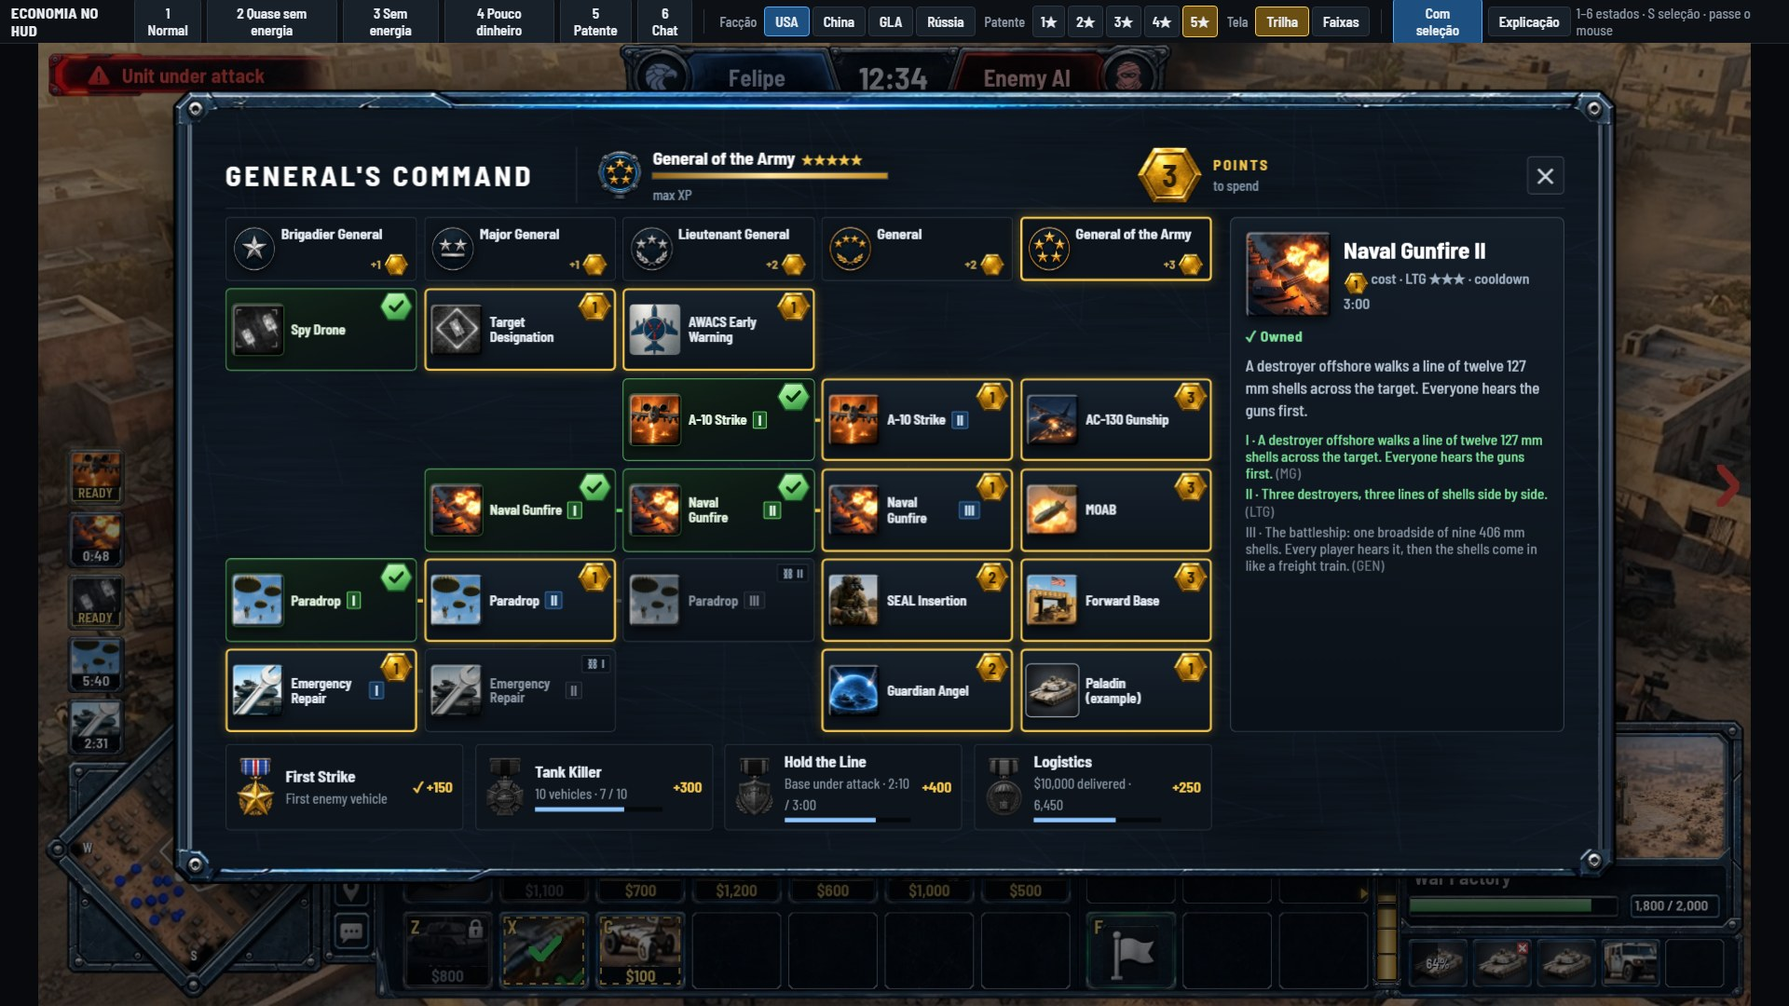
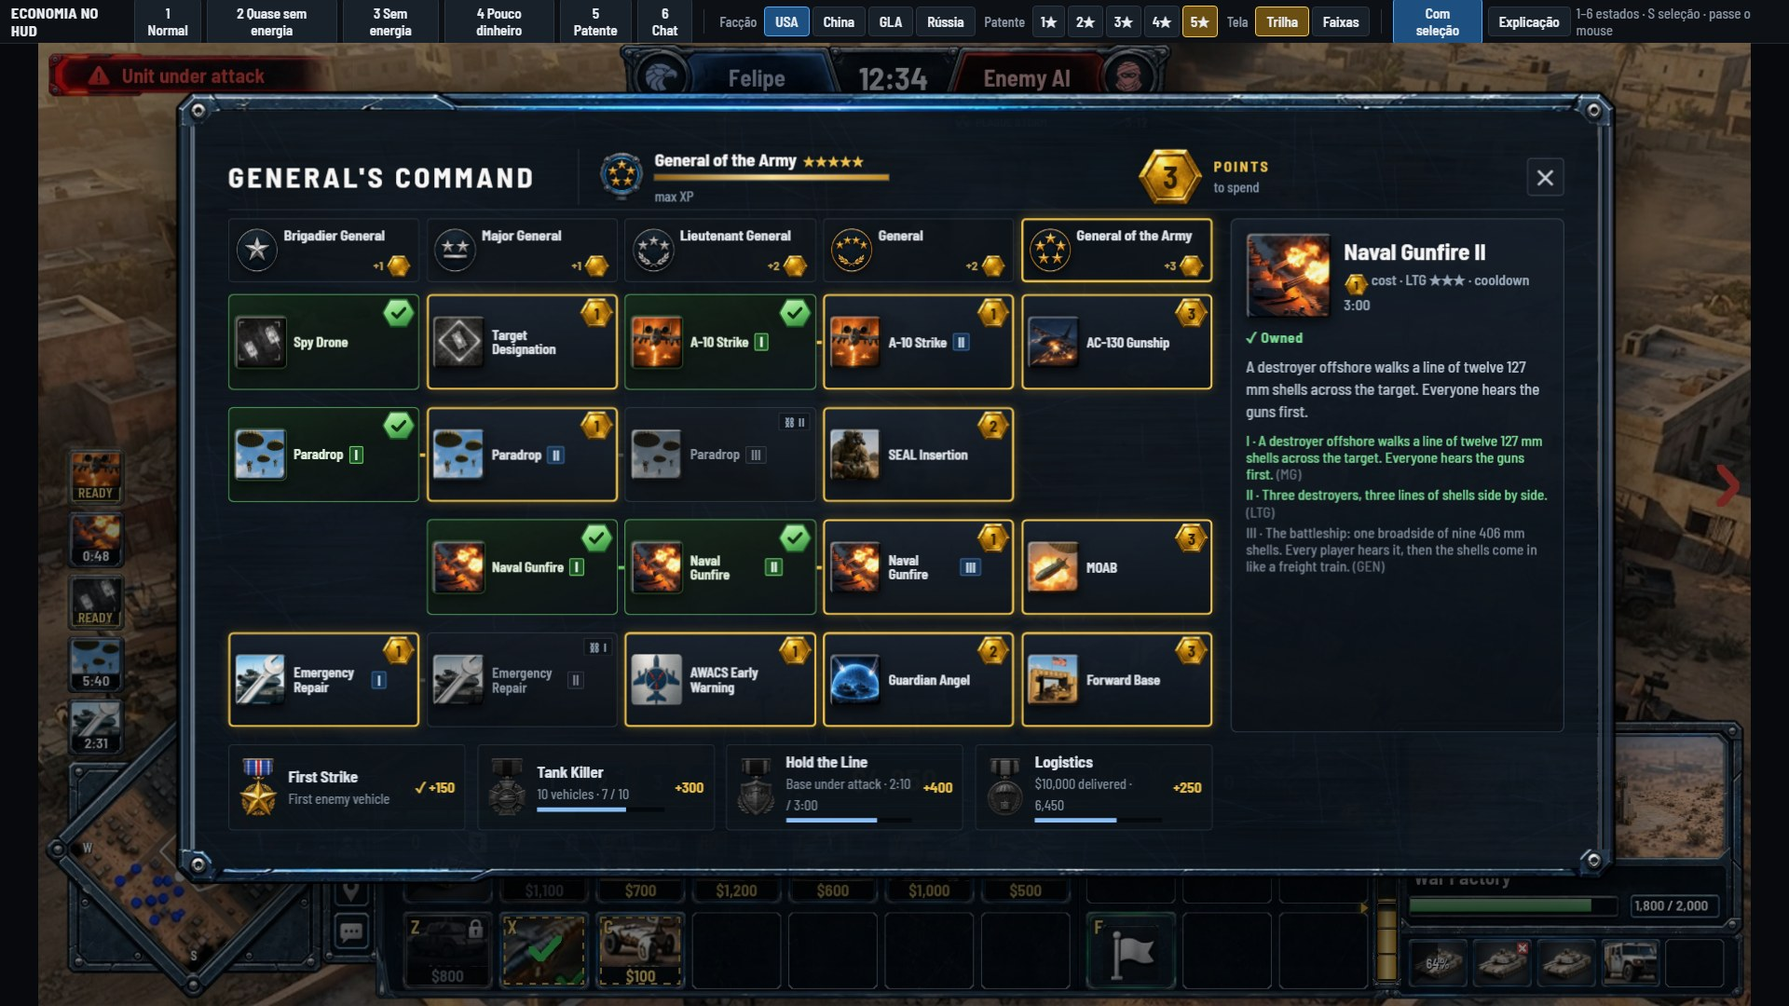
Poderes do general: a tela da USA sem os rótulos das linhas, na ordem aprovada antes

diff --git a/docs/poderes/tela/poderes_usa.html b/docs/poderes/tela/poderes_usa.html
@@ -1040,7 +1040,7 @@ html, body { margin: 0; height: 100%; background: var(--bg); color: var(--ink); 
 #pcolx .iw { position: absolute; }
 #pcolx .iw img { width: 100%; height: 100%; object-fit: cover; }
 </style>
-<style>#gen .trk { grid-template-columns: repeat(5, 1fr); grid-template-rows: 58px repeat(5, 1fr); } #gen .trk .rl, #gen .trk > svg + div { display: none; } #gen .trk .pw { max-width: 190px; }</style>
+<style>#gen .trk { grid-template-columns: repeat(5, 1fr); grid-template-rows: 58px repeat(4, 1fr); } #gen .trk .rl, #gen .trk > svg + div { display: none; } #gen .trk .pw { max-width: 190px; }</style>
 </head>
 <body>
 <div id="bar">
@@ -1644,33 +1644,32 @@ function menuReset() { Object.keys(OWN).forEach(k => delete OWN[k]); Object.assi
 
 // ---- v9: os poderes como nós (o nível II e III são nós próprios, ligados ao anterior); colunas = patente, linhas = tipo ----
 // (03/11, decisão dele: "dá pra tirar essa distinção das linhas, C&C não tem isso") A árvore da USA SEM o rótulo de tipo nas linhas:
-// o tipo é lido no ícone (docs/poderes/ICONES.md). As linhas são livres, na ordem dos tipos (olhos, golpe, golpe, tropas, apoio), e
-// uma patente pode ter quantos poderes precisar. Os níveis de um poder ficam na mesma linha, ligados. Ver docs/poderes/USA.md §17.
+// o tipo é lido no ícone (docs/poderes/ICONES.md). A ORDEM é a aprovada antes (as 4 linhas de antes, sem o rótulo: "não é pra mudar a
+// ordem que escolhemos"); uma patente pode ganhar outra linha quando precisar. Os níveis de um poder ficam na mesma linha, ligados.
 // A árvore de poderes da USA (docs/poderes/USA.md), no formato da tela de poderes do protótipo do HUD.
 // ic: o ícone em a/<ic>.png do protótipo; os novos estão em docs/poderes/tela/pw/ (provisórios). Os níveis de um poder ficam em
 // patentes seguidas (a linha que os liga não pode passar por trás de outro poder). Uma casa (linha × patente) = um poder.
 // t: o tipo (docs/poderes/ICONES.md): atk = golpe, intel = olhos, troop = tropas, sup = apoio (a família comando); pas = passivo; unl = desbloqueio.
-const ROWS = [['', ''], ['', ''], ['', ''], ['', ''], ['', '']];
+const ROWS = [['', ''], ['', ''], ['', ''], ['', '']];
 // (03/11, a árvore da USA em debate: docs/poderes/USA.md; os ícones em pw/ são provisórios)
 const NODES = [
   { id: 'drone', t: 'intel', row: 0, rank: 1, n: 'Spy Drone', ic: '../../../../poderes/tela/icones/usa_drone_esc', cost: 1, cd: '1:30', d: 'A stealth drone circles the point for 40 s, sees 66 m and reveals hidden units. It can be shot down.' },
   { id: 'desig', t: 'intel', row: 0, rank: 2, n: 'Target Designation', ic: '../../../../poderes/tela/icones/usa_desig_esc', cost: 1, cd: '1:30', d: 'A satellite paints a 30 m circle for 20 s. Hidden units are revealed and enemies inside take 25% more damage. The enemy sees the laser dots.' },
-  { id: 'a10_1', t: 'atk', row: 1, rank: 3, n: 'A-10 Strike', lv: 'I', ic: '../../../../poderes/tela/icones/usa_a10_esc', cost: 2, cd: '3:00', d: 'One A-10 makes a pass: six Mavericks and the 30 mm cannon along an 80 m strip. It can be shot down.' },
-  { id: 'a10_2', t: 'atk', row: 1, rank: 4, n: 'A-10 Strike', lv: 'II', req: 'a10_1', short: 'Two A-10s', ic: '../../../../poderes/tela/icones/usa_a10_esc', cost: 1, cd: '3:00', d: 'Two A-10s side by side.' },
-  { id: 'ac130', t: 'atk', row: 1, rank: 5, n: 'AC-130 Gunship', ic: '../../../../poderes/tela/icones/usa_ac130_esc', cost: 3, cd: '6:00', d: 'Orbits the area for 12 s and fires where you click: the 105 mm howitzer and the 25 mm cannon.' },
-  { id: 'para1', t: 'troop', row: 3, rank: 1, n: 'Paradrop', lv: 'I', ic: '../../../../poderes/tela/icones/usa_para_esc', cost: 1, cd: '3:00', d: 'Three Rangers and two Javelins drop at the target. $650 per drop.' },
-  { id: 'para2', t: 'troop', row: 3, rank: 2, n: 'Paradrop', lv: 'II', req: 'para1', short: '6 + 4', ic: '../../../../poderes/tela/icones/usa_para_esc', cost: 1, cd: '3:00', d: 'Six Rangers and four Javelins. $1,300 per drop.' },
-  { id: 'seal', t: 'troop', row: 3, rank: 4, n: 'SEAL Insertion', ic: '../../../../poderes/tela/icones/usa_seal_esc', cost: 2, cd: '4:00', d: 'An Osprey lands four hidden SEALs. Their charges bring a building down from where they were planted. $600 per insertion.' },
-  { id: 'para3', t: 'troop', row: 3, rank: 3, n: 'Paradrop', lv: 'III', req: 'para2', short: 'HALO, 10 + 6', ic: '../../../../poderes/tela/icones/usa_para_esc', cost: 1, cd: '3:00', d: 'HALO jump: ten Rangers and six Javelins from high altitude, where only long-range air defense reaches the plane. $2,000 per drop.' },
+  { id: 'a10_1', t: 'atk', row: 0, rank: 3, n: 'A-10 Strike', lv: 'I', ic: '../../../../poderes/tela/icones/usa_a10_esc', cost: 2, cd: '3:00', d: 'One A-10 makes a pass: six Mavericks and the 30 mm cannon along an 80 m strip. It can be shot down.' },
+  { id: 'a10_2', t: 'atk', row: 0, rank: 4, n: 'A-10 Strike', lv: 'II', req: 'a10_1', short: 'Two A-10s', ic: '../../../../poderes/tela/icones/usa_a10_esc', cost: 1, cd: '3:00', d: 'Two A-10s side by side.' },
+  { id: 'ac130', t: 'atk', row: 0, rank: 5, n: 'AC-130 Gunship', ic: '../../../../poderes/tela/icones/usa_ac130_esc', cost: 3, cd: '6:00', d: 'Orbits the area for 12 s and fires where you click: the 105 mm howitzer and the 25 mm cannon.' },
+  { id: 'para1', t: 'troop', row: 1, rank: 1, n: 'Paradrop', lv: 'I', ic: '../../../../poderes/tela/icones/usa_para_esc', cost: 1, cd: '3:00', d: 'Three Rangers and two Javelins drop at the target. $650 per drop.' },
+  { id: 'para2', t: 'troop', row: 1, rank: 2, n: 'Paradrop', lv: 'II', req: 'para1', short: '6 + 4', ic: '../../../../poderes/tela/icones/usa_para_esc', cost: 1, cd: '3:00', d: 'Six Rangers and four Javelins. $1,300 per drop.' },
+  { id: 'seal', t: 'troop', row: 1, rank: 4, n: 'SEAL Insertion', ic: '../../../../poderes/tela/icones/usa_seal_esc', cost: 2, cd: '4:00', d: 'An Osprey lands four hidden SEALs. Their charges bring a building down from where they were planted. $600 per insertion.' },
+  { id: 'para3', t: 'troop', row: 1, rank: 3, n: 'Paradrop', lv: 'III', req: 'para2', short: 'HALO, 10 + 6', ic: '../../../../poderes/tela/icones/usa_para_esc', cost: 1, cd: '3:00', d: 'HALO jump: ten Rangers and six Javelins from high altitude, where only long-range air defense reaches the plane. $2,000 per drop.' },
   { id: 'naval1', t: 'atk', row: 2, rank: 2, n: 'Naval Gunfire', lv: 'I', ic: '../../../../poderes/tela/icones/usa_naval_esc', cost: 1, cd: '3:00', d: 'A destroyer offshore walks a line of twelve 127 mm shells across the target. Everyone hears the guns first.' },
   { id: 'naval2', t: 'atk', row: 2, rank: 3, n: 'Naval Gunfire', lv: 'II', req: 'naval1', short: '3 destroyers', ic: '../../../../poderes/tela/icones/usa_naval_esc', cost: 1, cd: '3:00', d: 'Three destroyers, three lines of shells side by side.' },
   { id: 'naval3', t: 'atk', row: 2, rank: 4, n: 'Naval Gunfire', lv: 'III', req: 'naval2', short: 'Battleship', ic: '../../../../poderes/tela/icones/usa_naval_esc', cost: 1, cd: '5:00', d: 'The battleship: one broadside of nine 406 mm shells. Every player hears it, then the shells come in like a freight train.' },
-  { id: 'unl_ex', row: 4, rank: 5, n: 'Paladin (example)', t: 'unl', ic: '../../kit/photos/buttons/usa_battle_tank', cost: 1, cd: 'Unlock', d: 'Example of an unlock power: the tank becomes available in the War Factory, with the same picture as its build button.' },
   { id: 'moab', t: 'atk', row: 2, rank: 5, n: 'MOAB', ic: '../../../../poderes/tela/icones/usa_moab_esc', cost: 3, cd: '7:00', d: 'The biggest bomb, dropped from an MC-130 by parachute. The mark stays on the ground for 12 s.' },
-  { id: 'repair1', t: 'sup', row: 4, rank: 1, n: 'Emergency Repair', lv: 'I', ic: '../../../../poderes/tela/icones/usa_repair_esc', cost: 1, cd: '2:00', d: 'Vehicles in the area get back 30% of their health and take 25% less damage for 15 s.' },
-  { id: 'awacs', t: 'pas', row: 0, rank: 3, n: 'AWACS Early Warning', ic: '../../../../poderes/tela/icones/usa_awacs_esc', cost: 1, cd: 'Passive', d: 'Every enemy power shows its type, route and target the moment it is called, for you and your allies.' },
-  { id: 'repair2', t: 'sup', row: 4, rank: 2, n: 'Emergency Repair', lv: 'II', req: 'repair1', short: '50%, buildings too', ic: '../../../../poderes/tela/icones/usa_repair_esc', cost: 1, cd: '2:00', d: '50% back, and buildings too.' },
-  { id: 'angel', t: 'sup', row: 4, rank: 4, n: 'Guardian Angel', ic: '../../../../poderes/tela/icones/usa_angel_esc', cost: 2, cd: '3:00', d: 'For 20 s, lasers and interceptors shoot down missiles, rockets, shells and bombs over a 40 m circle. Not superweapons.' },
+  { id: 'repair1', t: 'sup', row: 3, rank: 1, n: 'Emergency Repair', lv: 'I', ic: '../../../../poderes/tela/icones/usa_repair_esc', cost: 1, cd: '2:00', d: 'Vehicles in the area get back 30% of their health and take 25% less damage for 15 s.' },
+  { id: 'awacs', t: 'pas', row: 3, rank: 3, n: 'AWACS Early Warning', ic: '../../../../poderes/tela/icones/usa_awacs_esc', cost: 1, cd: 'Passive', d: 'Every enemy power shows its type, route and target the moment it is called, for you and your allies.' },
+  { id: 'repair2', t: 'sup', row: 3, rank: 2, n: 'Emergency Repair', lv: 'II', req: 'repair1', short: '50%, buildings too', ic: '../../../../poderes/tela/icones/usa_repair_esc', cost: 1, cd: '2:00', d: '50% back, and buildings too.' },
+  { id: 'angel', t: 'sup', row: 3, rank: 4, n: 'Guardian Angel', ic: '../../../../poderes/tela/icones/usa_angel_esc', cost: 2, cd: '3:00', d: 'For 20 s, lasers and interceptors shoot down missiles, rockets, shells and bombs over a 40 m circle. Not superweapons.' },
   { id: 'fob', t: 'troop', row: 3, rank: 5, n: 'Forward Base', ic: '../../../../poderes/tela/icones/usa_fob_esc', cost: 3, cd: '6:00', d: 'A C-17 lands and sets up a forward base in 20 s. Reinforcements can leave from it, and it repairs vehicles around it. One at a time.' }];
 const HAVE = {};
 const node = id => NODES.find(n => n.id === id);

diff --git a/docs/poderes/tela/usa.js b/docs/poderes/tela/usa.js
@@ -1,28 +1,28 @@
 // (03/11, decisão dele: "dá pra tirar essa distinção das linhas, C&C não tem isso") A árvore da USA SEM o rótulo de tipo nas linhas:
-// o tipo é lido no ícone (docs/poderes/ICONES.md). As linhas são livres, na ordem dos tipos (olhos, golpe, golpe, tropas, apoio), e
-// uma patente pode ter quantos poderes precisar. Os níveis de um poder ficam na mesma linha, ligados. Ver docs/poderes/USA.md §17.
+// o tipo é lido no ícone (docs/poderes/ICONES.md). A ORDEM é a aprovada antes (as 4 linhas de antes, sem o rótulo: "não é pra mudar a
+// ordem que escolhemos"); uma patente pode ganhar outra linha quando precisar. Os níveis de um poder ficam na mesma linha, ligados.
 // A árvore de poderes da USA (docs/poderes/USA.md), no formato da tela de poderes do protótipo do HUD.
 // ic: o ícone em a/<ic>.png do protótipo; os novos estão em docs/poderes/tela/pw/ (provisórios). Os níveis de um poder ficam em
 // patentes seguidas (a linha que os liga não pode passar por trás de outro poder). Uma casa (linha × patente) = um poder.
 // t: o tipo (docs/poderes/ICONES.md): atk = golpe, intel = olhos, troop = tropas, sup = apoio (a família comando); pas = passivo; unl = desbloqueio.
-const ROWS = [['', ''], ['', ''], ['', ''], ['', ''], ['', '']];
+const ROWS = [['', ''], ['', ''], ['', ''], ['', '']];
 // (03/11, a árvore da USA em debate: docs/poderes/USA.md; os ícones em pw/ são provisórios)
 const NODES = [
   { id: 'drone', t: 'intel', row: 0, rank: 1, n: 'Spy Drone', ic: 'spy_drone', cost: 1, cd: '1:30', d: 'A stealth drone circles the point for 40 s, sees 66 m and reveals hidden units. It can be shot down.' },
   { id: 'desig', t: 'intel', row: 0, rank: 2, n: 'Target Designation', ic: 'orbital_lance', cost: 1, cd: '1:30', d: 'A satellite paints a 30 m circle for 20 s. Hidden units are revealed and enemies inside take 25% more damage. The enemy sees the laser dots.' },
-  { id: 'a10_1', t: 'atk', row: 1, rank: 3, n: 'A-10 Strike', lv: 'I', ic: '../../../../poderes/tela/pw/usa_a10', cost: 2, cd: '3:00', d: 'One A-10 makes a pass: six Mavericks and the 30 mm cannon along an 80 m strip. It can be shot down.' },
-  { id: 'a10_2', t: 'atk', row: 1, rank: 4, n: 'A-10 Strike', lv: 'II', req: 'a10_1', short: 'Two A-10s', ic: '../../../../poderes/tela/pw/usa_a10', cost: 1, cd: '3:00', d: 'Two A-10s side by side.' },
-  { id: 'ac130', t: 'atk', row: 1, rank: 5, n: 'AC-130 Gunship', ic: '../../../../poderes/tela/pw/usa_ac130', cost: 3, cd: '6:00', d: 'Orbits the area for 12 s and fires where you click: the 105 mm howitzer and the 25 mm cannon.' },
-  { id: 'para1', t: 'troop', row: 3, rank: 1, n: 'Paradrop', lv: 'I', ic: 'paradrop', cost: 1, cd: '3:00', d: 'Three Rangers and two Javelins drop at the target. $650 per drop.' },
-  { id: 'para2', t: 'troop', row: 3, rank: 2, n: 'Paradrop', lv: 'II', req: 'para1', short: '6 + 4', ic: 'paradrop', cost: 1, cd: '3:00', d: 'Six Rangers and four Javelins. $1,300 per drop.' },
-  { id: 'seal', t: 'troop', row: 3, rank: 4, n: 'SEAL Insertion', ic: 'p_usa_ranger', cost: 2, cd: '4:00', d: 'An Osprey lands four hidden SEALs. Their charges bring a building down from where they were planted. $600 per insertion.' },
-  { id: 'para3', t: 'troop', row: 3, rank: 3, n: 'Paradrop', lv: 'III', req: 'para2', short: 'HALO, 10 + 6', ic: 'paradrop', cost: 1, cd: '3:00', d: 'HALO jump: ten Rangers and six Javelins from high altitude, where only long-range air defense reaches the plane. $2,000 per drop.' },
+  { id: 'a10_1', t: 'atk', row: 0, rank: 3, n: 'A-10 Strike', lv: 'I', ic: '../../../../poderes/tela/pw/usa_a10', cost: 2, cd: '3:00', d: 'One A-10 makes a pass: six Mavericks and the 30 mm cannon along an 80 m strip. It can be shot down.' },
+  { id: 'a10_2', t: 'atk', row: 0, rank: 4, n: 'A-10 Strike', lv: 'II', req: 'a10_1', short: 'Two A-10s', ic: '../../../../poderes/tela/pw/usa_a10', cost: 1, cd: '3:00', d: 'Two A-10s side by side.' },
+  { id: 'ac130', t: 'atk', row: 0, rank: 5, n: 'AC-130 Gunship', ic: '../../../../poderes/tela/pw/usa_ac130', cost: 3, cd: '6:00', d: 'Orbits the area for 12 s and fires where you click: the 105 mm howitzer and the 25 mm cannon.' },
+  { id: 'para1', t: 'troop', row: 1, rank: 1, n: 'Paradrop', lv: 'I', ic: 'paradrop', cost: 1, cd: '3:00', d: 'Three Rangers and two Javelins drop at the target. $650 per drop.' },
+  { id: 'para2', t: 'troop', row: 1, rank: 2, n: 'Paradrop', lv: 'II', req: 'para1', short: '6 + 4', ic: 'paradrop', cost: 1, cd: '3:00', d: 'Six Rangers and four Javelins. $1,300 per drop.' },
+  { id: 'seal', t: 'troop', row: 1, rank: 4, n: 'SEAL Insertion', ic: 'p_usa_ranger', cost: 2, cd: '4:00', d: 'An Osprey lands four hidden SEALs. Their charges bring a building down from where they were planted. $600 per insertion.' },
+  { id: 'para3', t: 'troop', row: 1, rank: 3, n: 'Paradrop', lv: 'III', req: 'para2', short: 'HALO, 10 + 6', ic: 'paradrop', cost: 1, cd: '3:00', d: 'HALO jump: ten Rangers and six Javelins from high altitude, where only long-range air defense reaches the plane. $2,000 per drop.' },
   { id: 'naval1', t: 'atk', row: 2, rank: 2, n: 'Naval Gunfire', lv: 'I', ic: '../../../../poderes/tela/pw/usa_naval', cost: 1, cd: '3:00', d: 'A destroyer offshore walks a line of twelve 127 mm shells across the target. Everyone hears the guns first.' },
   { id: 'naval2', t: 'atk', row: 2, rank: 3, n: 'Naval Gunfire', lv: 'II', req: 'naval1', short: '3 destroyers', ic: '../../../../poderes/tela/pw/usa_naval', cost: 1, cd: '3:00', d: 'Three destroyers, three lines of shells side by side.' },
   { id: 'naval3', t: 'atk', row: 2, rank: 4, n: 'Naval Gunfire', lv: 'III', req: 'naval2', short: 'Battleship', ic: '../../../../poderes/tela/pw/usa_naval', cost: 1, cd: '5:00', d: 'The battleship: one broadside of nine 406 mm shells. Every player hears it, then the shells come in like a freight train.' },
   { id: 'moab', t: 'atk', row: 2, rank: 5, n: 'MOAB', ic: '../../../../poderes/tela/pw/usa_moab', cost: 3, cd: '7:00', d: 'The biggest bomb, dropped from an MC-130 by parachute. The mark stays on the ground for 12 s.' },
-  { id: 'repair1', t: 'sup', row: 4, rank: 1, n: 'Emergency Repair', lv: 'I', ic: 'repair', cost: 1, cd: '2:00', d: 'Vehicles in the area get back 30% of their health and take 25% less damage for 15 s.' },
-  { id: 'awacs', t: 'pas', row: 0, rank: 3, n: 'AWACS Early Warning', ic: '../../../../poderes/tela/pw/usa_awacs', cost: 1, cd: 'Passive', d: 'Every enemy power shows its type, route and target the moment it is called, for you and your allies.' },
-  { id: 'repair2', t: 'sup', row: 4, rank: 2, n: 'Emergency Repair', lv: 'II', req: 'repair1', short: '50%, buildings too', ic: 'repair', cost: 1, cd: '2:00', d: '50% back, and buildings too.' },
-  { id: 'angel', t: 'sup', row: 4, rank: 4, n: 'Guardian Angel', ic: 'armor_upgrade', cost: 2, cd: '3:00', d: 'For 20 s, lasers and interceptors shoot down missiles, rockets, shells and bombs over a 40 m circle. Not superweapons.' },
+  { id: 'repair1', t: 'sup', row: 3, rank: 1, n: 'Emergency Repair', lv: 'I', ic: 'repair', cost: 1, cd: '2:00', d: 'Vehicles in the area get back 30% of their health and take 25% less damage for 15 s.' },
+  { id: 'awacs', t: 'pas', row: 3, rank: 3, n: 'AWACS Early Warning', ic: '../../../../poderes/tela/pw/usa_awacs', cost: 1, cd: 'Passive', d: 'Every enemy power shows its type, route and target the moment it is called, for you and your allies.' },
+  { id: 'repair2', t: 'sup', row: 3, rank: 2, n: 'Emergency Repair', lv: 'II', req: 'repair1', short: '50%, buildings too', ic: 'repair', cost: 1, cd: '2:00', d: '50% back, and buildings too.' },
+  { id: 'angel', t: 'sup', row: 3, rank: 4, n: 'Guardian Angel', ic: 'armor_upgrade', cost: 2, cd: '3:00', d: 'For 20 s, lasers and interceptors shoot down missiles, rockets, shells and bombs over a 40 m circle. Not superweapons.' },
   { id: 'fob', t: 'troop', row: 3, rank: 5, n: 'Forward Base', ic: 'p_usa_war_factory', cost: 3, cd: '6:00', d: 'A C-17 lands and sets up a forward base in 20 s. Reinforcements can leave from it, and it repairs vehicles around it. One at a time.' }];

diff --git a/docs/poderes/tela/make_tela.py b/docs/poderes/tela/make_tela.py
@@ -71,8 +71,6 @@ def build(faction, style=None, column=None, icons=None, tree_name=None):
             if os.path.exists(os.path.join(ico, f'usa_{pw}_{icons}.png')):
                 n0 = out.index('const NODES')    # só na árvore: o protótipo tem outra lista com os mesmos ids (o MENU antigo)
                 out = out[:n0] + re.sub(r"(\{ id: '%s',[^\n]*? ic: ')[^']*'" % i, lambda m: m.group(1) + f"../../../../poderes/tela/icones/usa_{pw}_{icons}'", out[n0:], count=1)
-        # o exemplo de desbloqueio (a USA não tem: a tecnologia abre pela patente); a foto do botão de construir do tanque, do kit do HUD
-        if "id: 'unl_ex'" not in out: out = out.replace("  { id: 'moab',", "  { id: 'unl_ex', row: 4, rank: 5, n: 'Paladin (example)', t: 'unl', ic: '../../kit/photos/buttons/usa_battle_tank', cost: 1, cd: 'Unlock', d: 'Example of an unlock power: the tank becomes available in the War Factory, with the same picture as its build button.' },\n  { id: 'moab',", 1)
     hook = "if (q.get('gen')) setTimeout(genOpen, 400);"
     # a coluna de poderes do HUD (a da esquerda, desenhada no fundo): o ícone por cima de cada casa; o relógio embaixo continua
     if column:

diff --git a/docs/APROVADOS.md b/docs/APROVADOS.md
@@ -429,4 +429,5 @@ O como de cada visual continua nos documentos de cada área: `docs/RECEITAS_DO_L
 | 03/11 | **NO RUMO: os ícones dos poderes da USA pela regra das famílias** (`docs/poderes/ICONES.md`): **o do GPT na maioria**, trocando pelo do Gemini **o Naval, a MOAB e o AC-130**. **Reprovados:** o ícone do Emergency Repair ("não dá pra saber que é de conserto") e o do Guardian Angel ("parece um raio de atirar, todo mundo vai se enganar"); o do Forward Operating Base "não representa o que eu tinha entendido", e **o próprio poder ficou em dúvida** ("dá pra gente pensar num outro da USA que faz sentido") | "o do GPT gostei, a maioria, mas eu trocaria pelo do Gemini os do naval, e o moab, e o ac130" | `docs/concept/poderes/icones_familias_gpt_sel_a10_1.jpg` | `docs/poderes/ICONES.md` §8 | Superarmas |
 | 03/11 | **ESCOLHIDO: o ícone do Forward Operating Base, o portão do Gemini** (o posto de barreiras com a bandeira e o tanque saindo pelo portão: os reforços saem dali). O poder fica (o Strategic Airlift não entrou: "pode deixar o outro, o posto avançado") | "pode ser o do Gemini, o portão" | `docs/concept/poderes/icones_usa_conjunto.jpg` | `docs/poderes/ICONES.md` §9 | Superarmas |
 | 03/11 | **APROVADO: o conjunto de ícones dos poderes da USA** (a regra das famílias: o comando com a cena, o passivo na placa, o desbloqueio na foto do botão; o GPT na maioria, o Naval, a MOAB, o AC-130 e o portão do posto avançado do Gemini; a chave, a cúpula e o radar refeitos). **E DECIDIDO: a tela do general sem a distinção das linhas por tipo** (o tipo se lê no ícone; as linhas são livres, uma patente pode ter quantos poderes precisar; os níveis seguem na mesma linha) | "aprovado"; "e se tiver 2 AIR [...] no Major General, como encaixaria?"; "eu acho que daria pra tirar essa distinção das linhas, e foda-se, C&C não tem isso mesmo" | `docs/concept/poderes/tela_sem_rotulos.jpg` | `docs/poderes/ICONES.md` §9, `docs/poderes/USA.md` §17, a tela `docs/poderes/tela/` | Superarmas |
+| 03/11 | **DECIDIDO: sem as linhas por tipo, mas na MESMA ORDEM aprovada antes** (eu tinha reordenado por tipo ao tirar os rótulos; desfeito) | "top, mas deixa exatamente na ordem que tava antes, mesmo que a gente desbloqueou (tirou a trava por linhas) não é pra mudar a ordem que escolhemos antes" | `docs/concept/poderes/tela_sem_rotulos.jpg` | `docs/poderes/USA.md` §17 | Superarmas |
 

diff --git a/docs/poderes/USA.md b/docs/poderes/USA.md
@@ -404,12 +404,9 @@ um por vez.
   - as colunas são as patentes;
   - os níveis de um poder ficam na mesma linha, ligados pela linha;
   - as linhas seguem a ordem dos tipos (olhos, golpe, tropas, apoio), sem rótulo, só pra manter juntos os parecidos.
-- **A árvore** (`docs/poderes/tela/usa.js`), em 5 linhas:
-  1. olhos: Spy Drone, Target Designation, AWACS;
-  2. golpe do ar: A-10 I e II, AC-130;
-  3. golpe do mar: Naval I a III, MOAB;
-  4. tropas: Paradrop I a III, SEAL, posto avançado;
-  5. apoio: Emergency Repair I e II, Guardian Angel.
+- **A ordem continua a aprovada antes** (ele: "deixa exatamente na ordem que tava antes, mesmo que a gente desbloqueou, não é pra mudar a
+  ordem que escolhemos"). As 4 linhas de §2 ficam, só sem o rótulo. Na 1ª montagem sem rótulo eu tinha reordenado por tipo, e foi
+  desfeito. Uma linha nova só entra quando uma patente precisar de mais um poder.
 - **A tela:** `docs/poderes/tela/poderes_usa.jpg` e `docs/concept/poderes/tela_sem_rotulos.jpg`.
   - `make_tela.py`: quando todos os rótulos de `ROWS` são vazios, some a coluna dos rótulos e a grade fica com as 5 patentes.
 
